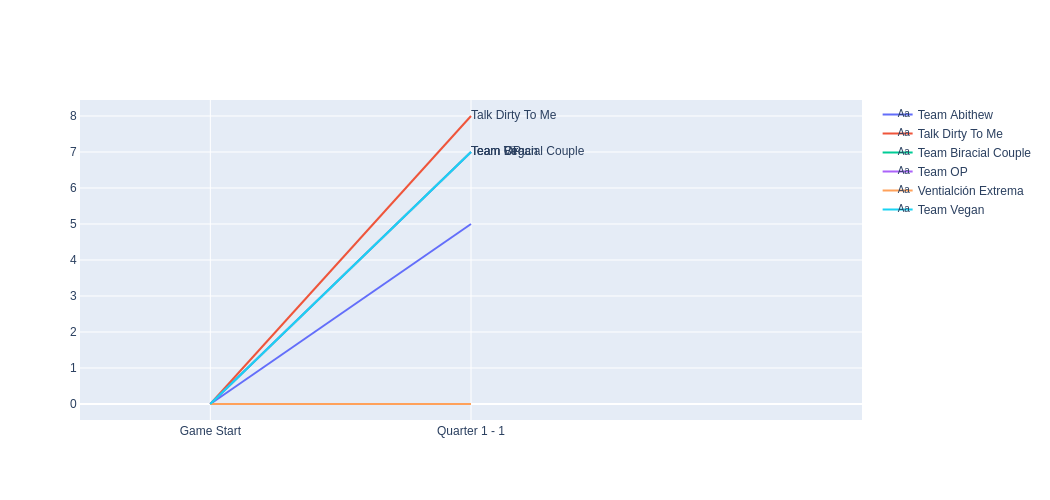
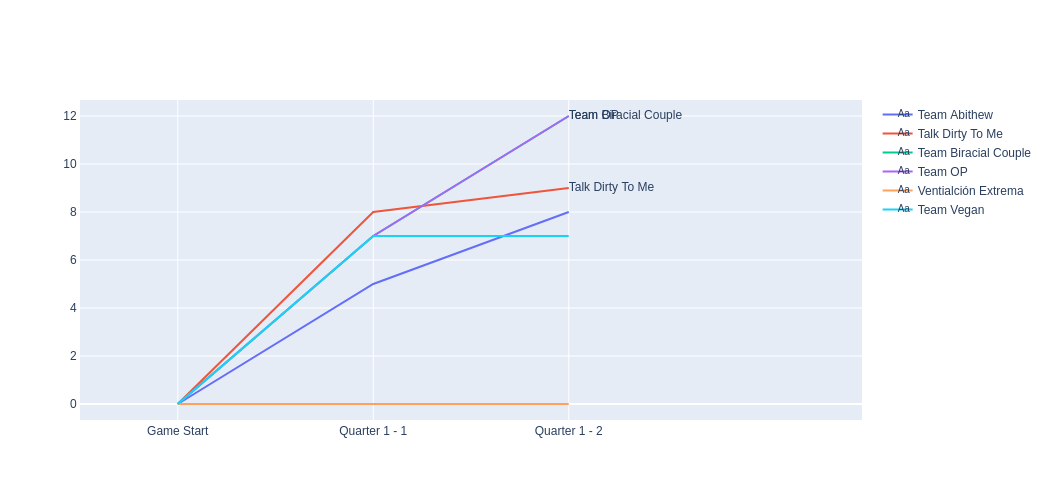
Live Edits

diff --git a/Trivia/Live_Tracker.html b/Trivia/Live_Tracker.html
@@ -13,7 +13,7 @@
         document.getElementById("title").innerHTML = "Trivia Live Scoring - " + m + "/" + d + "/" + y;
         </script>
         <div><img src = "img/fig1.png"></div>
-        <div>5 people (83%) got question 1-1 correct.</div>
+        <div>4 people (67%) got question 1-2 correct.</div>
         
         </body>
         </html>
